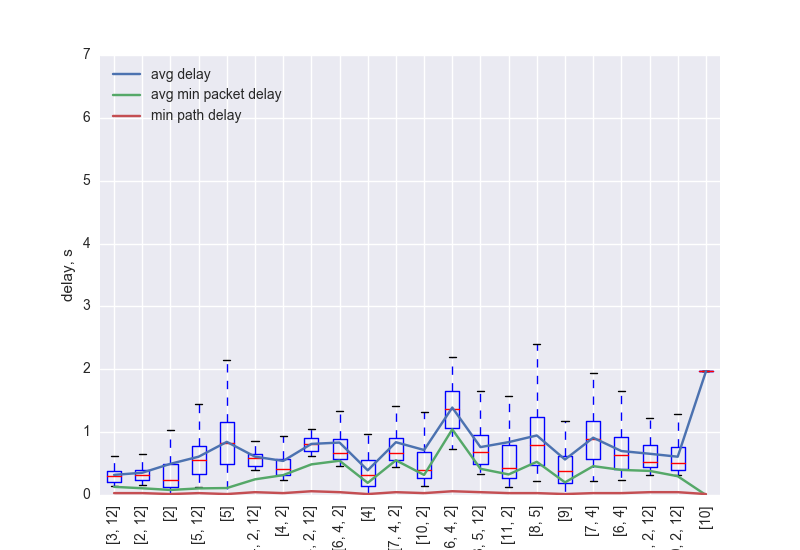
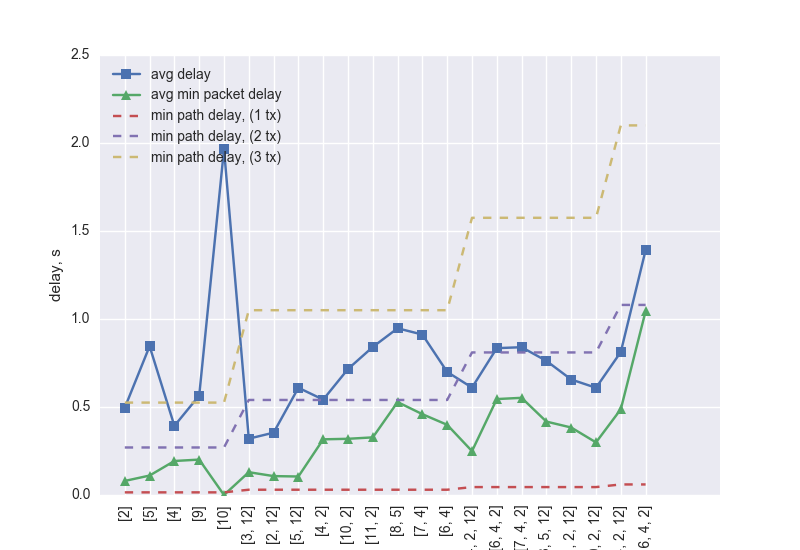
delay source comparison

diff --git a/data-processing/delayProcessor.py b/data-processing/delayProcessor.py
@@ -6,7 +6,11 @@ import seaborn
 import numpy as np
 import matplotlib.pyplot as plt
 
+from matplotlib import rcParams
+rcParams.update({'figure.autolayout': True})
+
 from logProcessor import LogProcessor
+from helperFunctions import mean_confidence_interval
 
 gl_num_active_slots = 13
 gl_num_off_slots = 2
@@ -73,7 +77,14 @@ class Schedule:
         :param path: list of motes
         :return:
         '''
-        return sum([self.get_min_link_delay(hop, hop+1) for idx, hop in enumerate(path) if (idx != len(path)-1)])
+        # return sum([self.get_min_link_delay(hop, hop+1) for idx, hop in enumerate(path) if (idx != len(path)-1)])
+        delay = 0.0
+        for idx, hop in enumerate(path):
+            if idx == 0:
+                delay += 0.0
+            else:
+                delay += self.get_min_link_delay(hop-1, hop)
+        return delay
 
     def get_min_packet_delay(self, pkt):
         '''
@@ -84,14 +95,15 @@ class Schedule:
         delay = 0.0
         for idx, hop in enumerate(pkt.hop_info):
             if idx == 0:
-                # first hop - consider minimum delay for the first retransmission
+                # first hop - consider half delay for the first retransmission
+                # delay += 0.5*self.frame_length + self.frame_length*(3 - hop['retx'])
                 delay += self.frame_length*(3 - hop['retx'])
-            elif idx != (len(pkt.hop_info)-1):
-                delay += (self.get_min_link_delay(hop['addr'], pkt.hop_info[idx+1]['addr']) +
-                         self.frame_length*(3 - hop['retx']))
             else:
-                delay += (self.get_min_link_delay(hop['addr'], 1) +
+                delay += (self.get_min_link_delay(pkt.hop_info[idx-1]['addr'], hop['addr']) +
                          self.frame_length*(3 - hop['retx']))
+            # else:
+#                delay += (self.get_min_link_delay(hop['addr'], 1) +
+#                         self.frame_length*(3 - hop['retx']))
 
         return delay
 
@@ -111,19 +123,28 @@ class DelayLogProcessor(LogProcessor):
         paths_min = []
 
         for pkt in self.packets:
-            path = pkt.get_path()
-            if not (str(path) in seen_paths):
-                paths_real.append((path, [pkt.delay]))
-                paths_min.append((path, [self.schedule.get_min_packet_delay(pkt)]))
-                seen_paths.add(str(path))
+            if pkt.delay>=0:
+                path = pkt.get_path()
+                if not (str(path) in seen_paths):
+                    paths_real.append((path, [pkt.delay]))
+                    paths_min.append((path, [self.schedule.get_min_packet_delay(pkt)]))
+                    seen_paths.add(str(path))
+                else:
+                    for idx, t in enumerate(paths_min):
+                        if t[0] == path:
+                            real_delay = pkt.delay
+                            min_delay = self.schedule.get_min_packet_delay(pkt)
+                            # debug
+                            min_path_delay = self.schedule.get_min_path_delay(t[0])
+                            assert (real_delay >= min_delay)
+                            assert (min_delay >= min_path_delay)
+
+                            paths_min[idx][1].append(min_delay)
+                            paths_real[idx][1].append(real_delay)
+                            break
             else:
-                for idx, t in enumerate(paths_min):
-                    if t[0] == path:
-                        real_delay = pkt.delay
-                        min_delay = self.schedule.get_min_packet_delay(pkt)
-                        paths_min[idx][1].append(min_delay)
-                        paths_real[idx][1].append(real_delay)
-                        break
+                print('negative delay...')
+                print(pkt)
 
         return paths_real, paths_min
 
@@ -175,21 +196,45 @@ class DelayLogProcessor(LogProcessor):
 
         paths_real, paths_min = self.get_all_paths_w_delay()
 
+        # plot 1
         plt.figure()
-
         # boxplot for real values
-        plt.boxplot([p[1] for p in paths_real])
+        # plt.boxplot([p[1] for p in paths_real])
+
+        zipped_and_sorted = [(x,y) for (x, y) in sorted(zip(paths_min, paths_real),
+                             key=lambda p: self.schedule.get_min_path_delay(p[0][0]))]
+
+        paths_min = [z[0] for z in zipped_and_sorted]
+        paths_real = [z[1] for z in zipped_and_sorted]
+
+        # sort by minimum path length
+        # paths_min = sorted(paths_min, key=lambda p: self.schedule.get_min_path_delay(p[0]+[1]))
 
         # plot for mean values
-        plt.plot(list(range(1, len(paths_real)+1)), [np.mean(p[1]) for p in paths_real], label='avg delay')
+        plt.plot(list(range(1, len(paths_real)+1)), [np.mean(p[1]) for p in paths_real],
+                 's-', label='avg delay')
 
         # plot for average minimum packet delays
-        plt.plot(list(range(1, len(paths_real)+1)), [np.mean(p[1]) for p in paths_min], label='avg min packet delay')
+        plt.plot(list(range(1, len(paths_real)+1)), [np.mean(p[1]) for p in paths_min],
+                 '^-', label='avg min packet delay', )
 
         # plot for minimum path delays
-        plt.plot(list(range(1, len(paths_real)+1)), [self.schedule.get_min_path_delay(p[0]+[1]) for p in paths_min],
-                 label='min path delay')
+        min_possible_delay = [self.schedule.get_min_path_delay(p[0]) for p in paths_min]
+        plt.plot(list(range(1, len(paths_real)+1)), min_possible_delay,
+                 '--',
+                 label='min path delay, (1 tx)')
 
+        # plot for minimum path delays with two retx
+        plt.plot(list(range(1, len(paths_real)+1)),
+                 [self.schedule.get_min_path_delay(p[0])+self.schedule.frame_length*len(p[0]) for p in paths_min],
+                 '--',
+                 label='min path delay, (2 tx)')
+
+        # plot for minimum path delays with three retx
+        plt.plot(list(range(1, len(paths_real)+1)),
+                 [self.schedule.get_min_path_delay(p[0])+2*self.schedule.frame_length*len(p[0]) for p in paths_min],
+                 '--',
+                 label='min path delay, (3 tx)')
 
         x = range(1, len([str(p[0]) for p in paths_real])+1)
         plt.xticks(x,  [str(p[0]) for p in paths_real])
@@ -197,7 +242,7 @@ class DelayLogProcessor(LogProcessor):
         plt.setp(labels, rotation=90)
 
 
-        plt.ylim((0, 7))
+        # plt.ylim((0, 7))
         plt.ylabel('delay, s')
         plt.xlabel('path #')
         plt.legend(loc=2)
@@ -205,6 +250,22 @@ class DelayLogProcessor(LogProcessor):
         if gl_save:
             plt.savefig(gl_image_path+re.findall(r"(.+?)\.log", self.filename.split('/')[-1])[0]+'_path_delay.png',
                         format='png', bbox='tight')
+
+        # return data for comparison plot
+
+        interf_delay = []
+        buffer_delay = []
+
+        for idx, p in enumerate(paths_min):  # take every path
+            for i, d in enumerate(p[1]):  # take every packet's delay
+                i_delay = d - self.schedule.get_min_path_delay(p[0])
+                b_delay = paths_real[idx][1][i] - d
+                interf_delay.append(i_delay)
+                buffer_delay.append(b_delay)
+
+        return interf_delay, buffer_delay
+
+
 
     def pkt_served_per_mote(self):
 
@@ -230,7 +291,7 @@ class DelayLogProcessor(LogProcessor):
         plt.setp(labels, rotation=90)
 
 if __name__ == '__main__':
-    gl_save = True
+    # gl_save = True
     sched = Schedule(num_slots=gl_num_active_slots, num_off=gl_num_off_slots, num_serial=gl_num_serial_slots)
 
     sched.plot_min_delay_heatmap()
@@ -239,12 +300,31 @@ if __name__ == '__main__':
 
     p = DelayLogProcessor(filename=folder+'no_interference_hopping.log', schedule=sched)
 
-    p.plot_path_delay()
+    int_delay0, buf_delay0 = p.plot_path_delay()
     p.plot_links_heatmap()
 
     p1 = DelayLogProcessor(filename=folder+'interference_hopping.log', schedule=sched)
-    p1.plot_path_delay()
+    int_delay1, buf_delay1 = p1.plot_path_delay()
     p1.plot_links_heatmap()
+
+    # comparison figure for different delays
+    plt.figure()
+
+    zipped = [int_delay0, int_delay1, buf_delay0, buf_delay1]
+
+    # print([np.mean(s) for s in zipped])
+    # print([mean_confidence_interval(s) for s in zipped])
+
+    plt.boxplot(zipped)
+    plt.ylim((-0.1, 1.5))
+
+    x = range(1, 5)
+    plt.xticks(x,  ['int (no int)', 'int (int)', 'buf (no int)', 'buf (int)'])
+    locs, labels = plt.xticks()
+    plt.setp(labels, rotation=90)
+
+    plt.savefig(gl_image_path+'delay_sources.png',
+                        format='png', bbox='tight')
 
     seaborn.plt.show()
     # plt.show()

diff --git a/data-processing/basicProcessor.py b/data-processing/basicProcessor.py
@@ -16,8 +16,8 @@ from logProcessor import LogProcessor
 from helperFunctions import find_latest_dump
 
 gl_mote_range = range(1, 14)
-# gl_dump_path = os.getenv("HOME") + '/Projects/TSCH/github/dumps/'
-gl_dump_path = os.getcwd() + '/../' + 'tdma/no-interference-hopping/'
+gl_dump_path = os.getenv("HOME") + '/Projects/TSCH/github/dumps/'
+# gl_dump_path = os.getcwd() + '/../' + 'tdma/no-interference-hopping/'
 gl_image_path = os.getenv("HOME") + ''
 
 
@@ -160,8 +160,8 @@ if __name__ == '__main__':
 
     folder = gl_dump_path
 
-    # p = LogProcessor(folder+find_latest_dump(folder))
-    p = BasicProcessor(filename=folder+'interference_hopping.log')#find_latest_dump(folder))
+    p = BasicProcessor(filename=folder+find_latest_dump(folder))
+    # p = BasicProcessor(filename=folder+'interference_hopping.log')#find_latest_dump(folder))
 
 
     print(p.find_motes_in_action())
@@ -169,9 +169,6 @@ if __name__ == '__main__':
     p.plot_num_packets(show=False)
     p.plot_timeline(show=False)
     p.plot_delays(show=False)
-
-    # p.plot_delays(normalized=True, show=False)
-
     p.plot_avg_hops(show=False)
     p.plot_retx(show=False)
 

diff --git a/data-processing/helperFunctions.py b/data-processing/helperFunctions.py
@@ -9,6 +9,7 @@ import unittest
 import numpy as np
 import ast
 import os
+import math
 import scipy.stats as st
 import matplotlib.pyplot as plt
 
@@ -151,7 +152,7 @@ def mean_confidence_interval(data, confidence=0.95):
     n = len(a)
     m, se = np.mean(a), st.sem(a)
     h = se * st.t._ppf((1+confidence)/2., n-1)
-    return m, m-h, m+h
+    return h
 
 
 if __name__ == '__main__':
